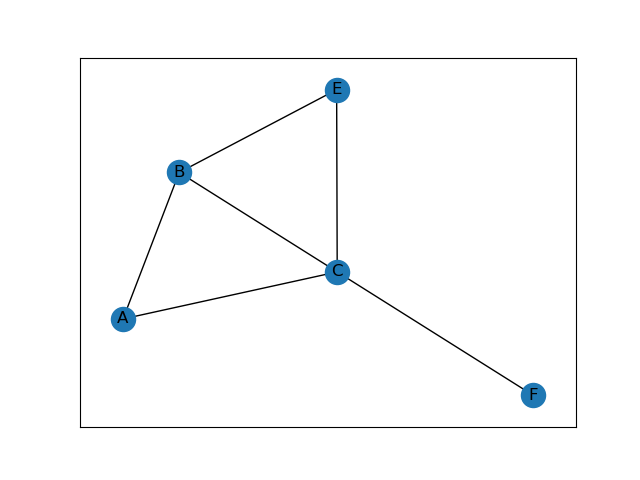
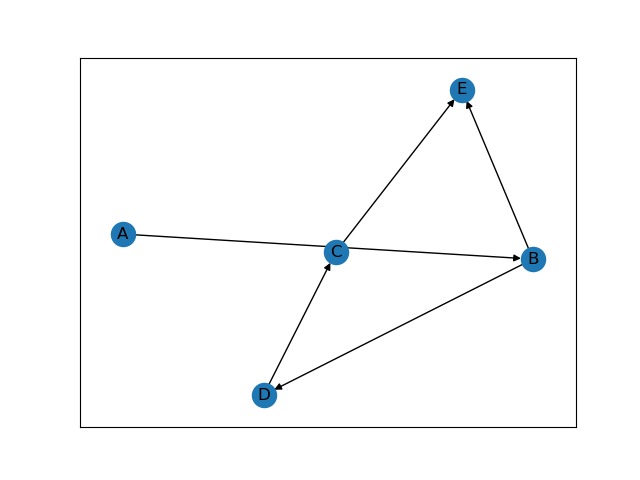
hackaton 270922

diff --git a/Trees/BST.py b/Trees/BST.py
@@ -9,22 +9,28 @@ class Node:
 
 
 class BST:
-    def __init__(self,x):
-        self.root = Node(x)
-        self.nodes = [] 
+    def __init__(self):
+        self.root = None
+        self.nodes = []
+        self.size = 0
     
     def insert(self,new_element):
+        if self.root == None: 
+            self.root = Node(new_element)
+            self.size += 1
         curr = self.root
         while curr:
             if new_element >= curr.value:
                 if curr.right: curr = curr.right
                 else:
                     curr.right = Node(new_element)
+                    self.size += 1
                     return
             if new_element < curr.value:
                 if curr.left: curr = curr.left
                 else:
                     curr.left = Node(new_element)
+                    self.size += 1 
                     return
         return False
     
@@ -32,6 +38,7 @@ class BST:
     
     def post_order_traversal(self, node = None):
         'LRV traversal'
+        if self.size == 0: return False
         if node == None: curr = self.root
         if node != None: curr = node
         if curr.left != None: self.post_order_traversal(curr.left)
@@ -42,6 +49,7 @@ class BST:
 
     def in_order_traversal(self,node = None):
         'LVR traversal'
+        if self.size == 0: return False
         if node == None: curr = self.root
         if node != None: curr = node
         if curr.left: self.in_order_traversal(curr.left)
@@ -52,6 +60,7 @@ class BST:
 
     def pre_order_traversal(self,node = None):
         'VLR traversal'
+        if self.size == 0: return False
         if node == None: curr = self.root
         if node != None: curr = node
         if curr: self.nodes.append(curr.value)
@@ -135,5 +144,16 @@ class BST:
             parent.left = new_node
         return
     
+    def clear(self):
+        self.root = None
+        self.empty()
+        bst = BST()
+        return bst
+    def empty(self):
+        self.size = 0 
+        return
+    def get_size(self): return self.size
+
+
 
 

diff --git a/graph/graph.py b/graph/graph.py
@@ -6,9 +6,12 @@ class graph:
         self.graph = dict()
     def add(self,node:str,connections:list):
         if node not in self.graph.keys(): self.graph[node] = connections
+        for con in connections: 
+            if con not in self.graph.keys(): self.graph[con] = [] 
         else:
             for con in connections:
-                if con not in self.graph[node]: self.graph[node].append(con)
+                if con not in self.graph[node]: 
+                    self.graph[node].append(con)
         return
     
     def get_matrix(self):
@@ -27,19 +30,30 @@ class graph:
     
     def get_as_dict(self):return self.graph
 
-    def visualize(self):
-        g = nx.Graph(self.graph)
+    def visualize(self, dir =True):
+        if dir == True: g = nx.DiGraph(self.graph)
+        else: g = nx.Graph(self.graph)
         nx.draw_networkx(g)
         plt.show()
         plt.savefig('graph.png', format = 'PNG')
 
+    def BFS_traversal(self):
+        traversal = [] 
+        for k in self.graph.keys():
+            if k not in traversal: traversal.append(k)
+            for v in self.graph[k]: 
+                if v not in traversal: traversal.append(v)
+        return traversal
+
+
+
 g = graph()
-g.add('A', ['B', 'C'])
-g.add('B', ['E', 'C', 'A'])
-g.add('C', ['A', 'B', 'E', 'F'])
-g.add('E', ['B', 'C'])
-g.add('F', ['C'])
+g.add('A', ['B'])
+g.add('B', ['D', 'E'])
+g.add('D', ['C'])
+g.add('C', ['E'])
 
 print(g.get_as_dict())
 print(g.get_matrix())
+print(g.BFS_traversal())
 g.visualize()
